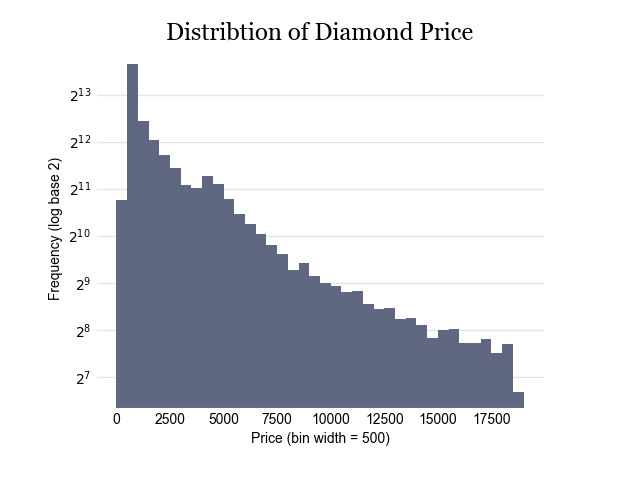
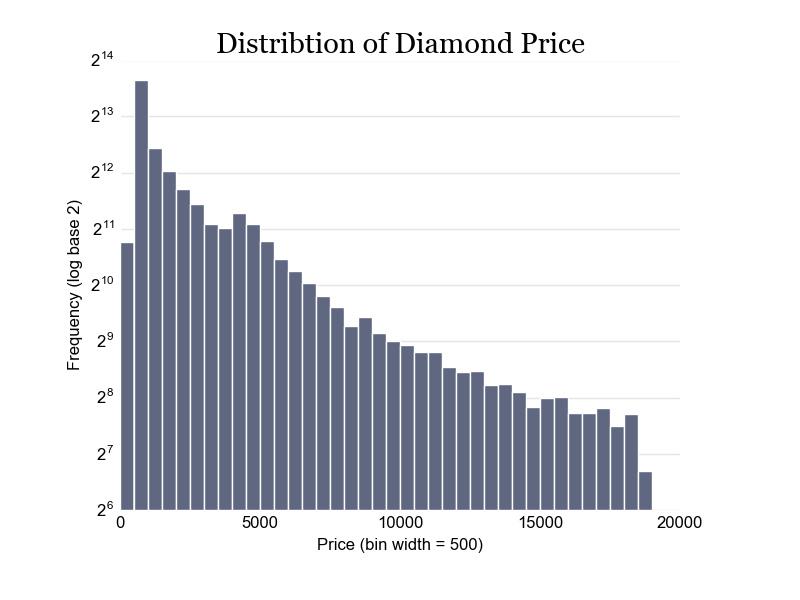
Removed FreightText and BrandonText as they weren't working. Also, set_family only takes a single variable and it ignores the value if it doesn't recognize it and reverts back to the font family specified in the mplstyle sheet.

Changed region(s): [[0.0625, 0.125, 0.875, 0.9375], [0.25, 0.0312, 0.75, 0.0938], [0.0938, 0.0938, 0.125, 0.125]]

diff --git a/mmviz.py b/mmviz.py
@@ -4,8 +4,8 @@ import matplotlib.pyplot as plt
 from cycler import cycler
 from matplotlib.font_manager import FontProperties
 
-MMVIZ_BRAND_FONT_SERIF = ["FreightText", "Georgia", "Times New Roman", "Times", "serif"]
-MMVIZ_BRAND_FONT_SANS_SERIF = ["BrandonText", "Helvetica", "Arial", "sans-serif"]
+MMVIZ_BRAND_FONT_SERIF = ["Georgia", "Times New Roman", "Times", "serif"]
+MMVIZ_BRAND_FONT_SANS_SERIF = ["Helvetica", "Arial", "sans-serif"]
 
 MMVIZ_COLOR_PALETTE_QUAL_DARK = ["#232E53", "#DF6035", "#42A44C", "#EFB83B", "#855AA1", "#69A5AC", "#D7313E", "#318FBF"]
 
@@ -29,7 +29,7 @@ MMVIZ_COLOR_BLUE_DARK = "#5C6B7E"
 
 
 TITLE_FONT_PROPERTIES = FontProperties()
-TITLE_FONT_PROPERTIES.set_family(MMVIZ_BRAND_FONT_SERIF)
+TITLE_FONT_PROPERTIES.set_family(MMVIZ_BRAND_FONT_SERIF[0])
 TITLE_FONT_PROPERTIES.set_size("xx-large")
 
 # create bin list based on values list and bin_width
